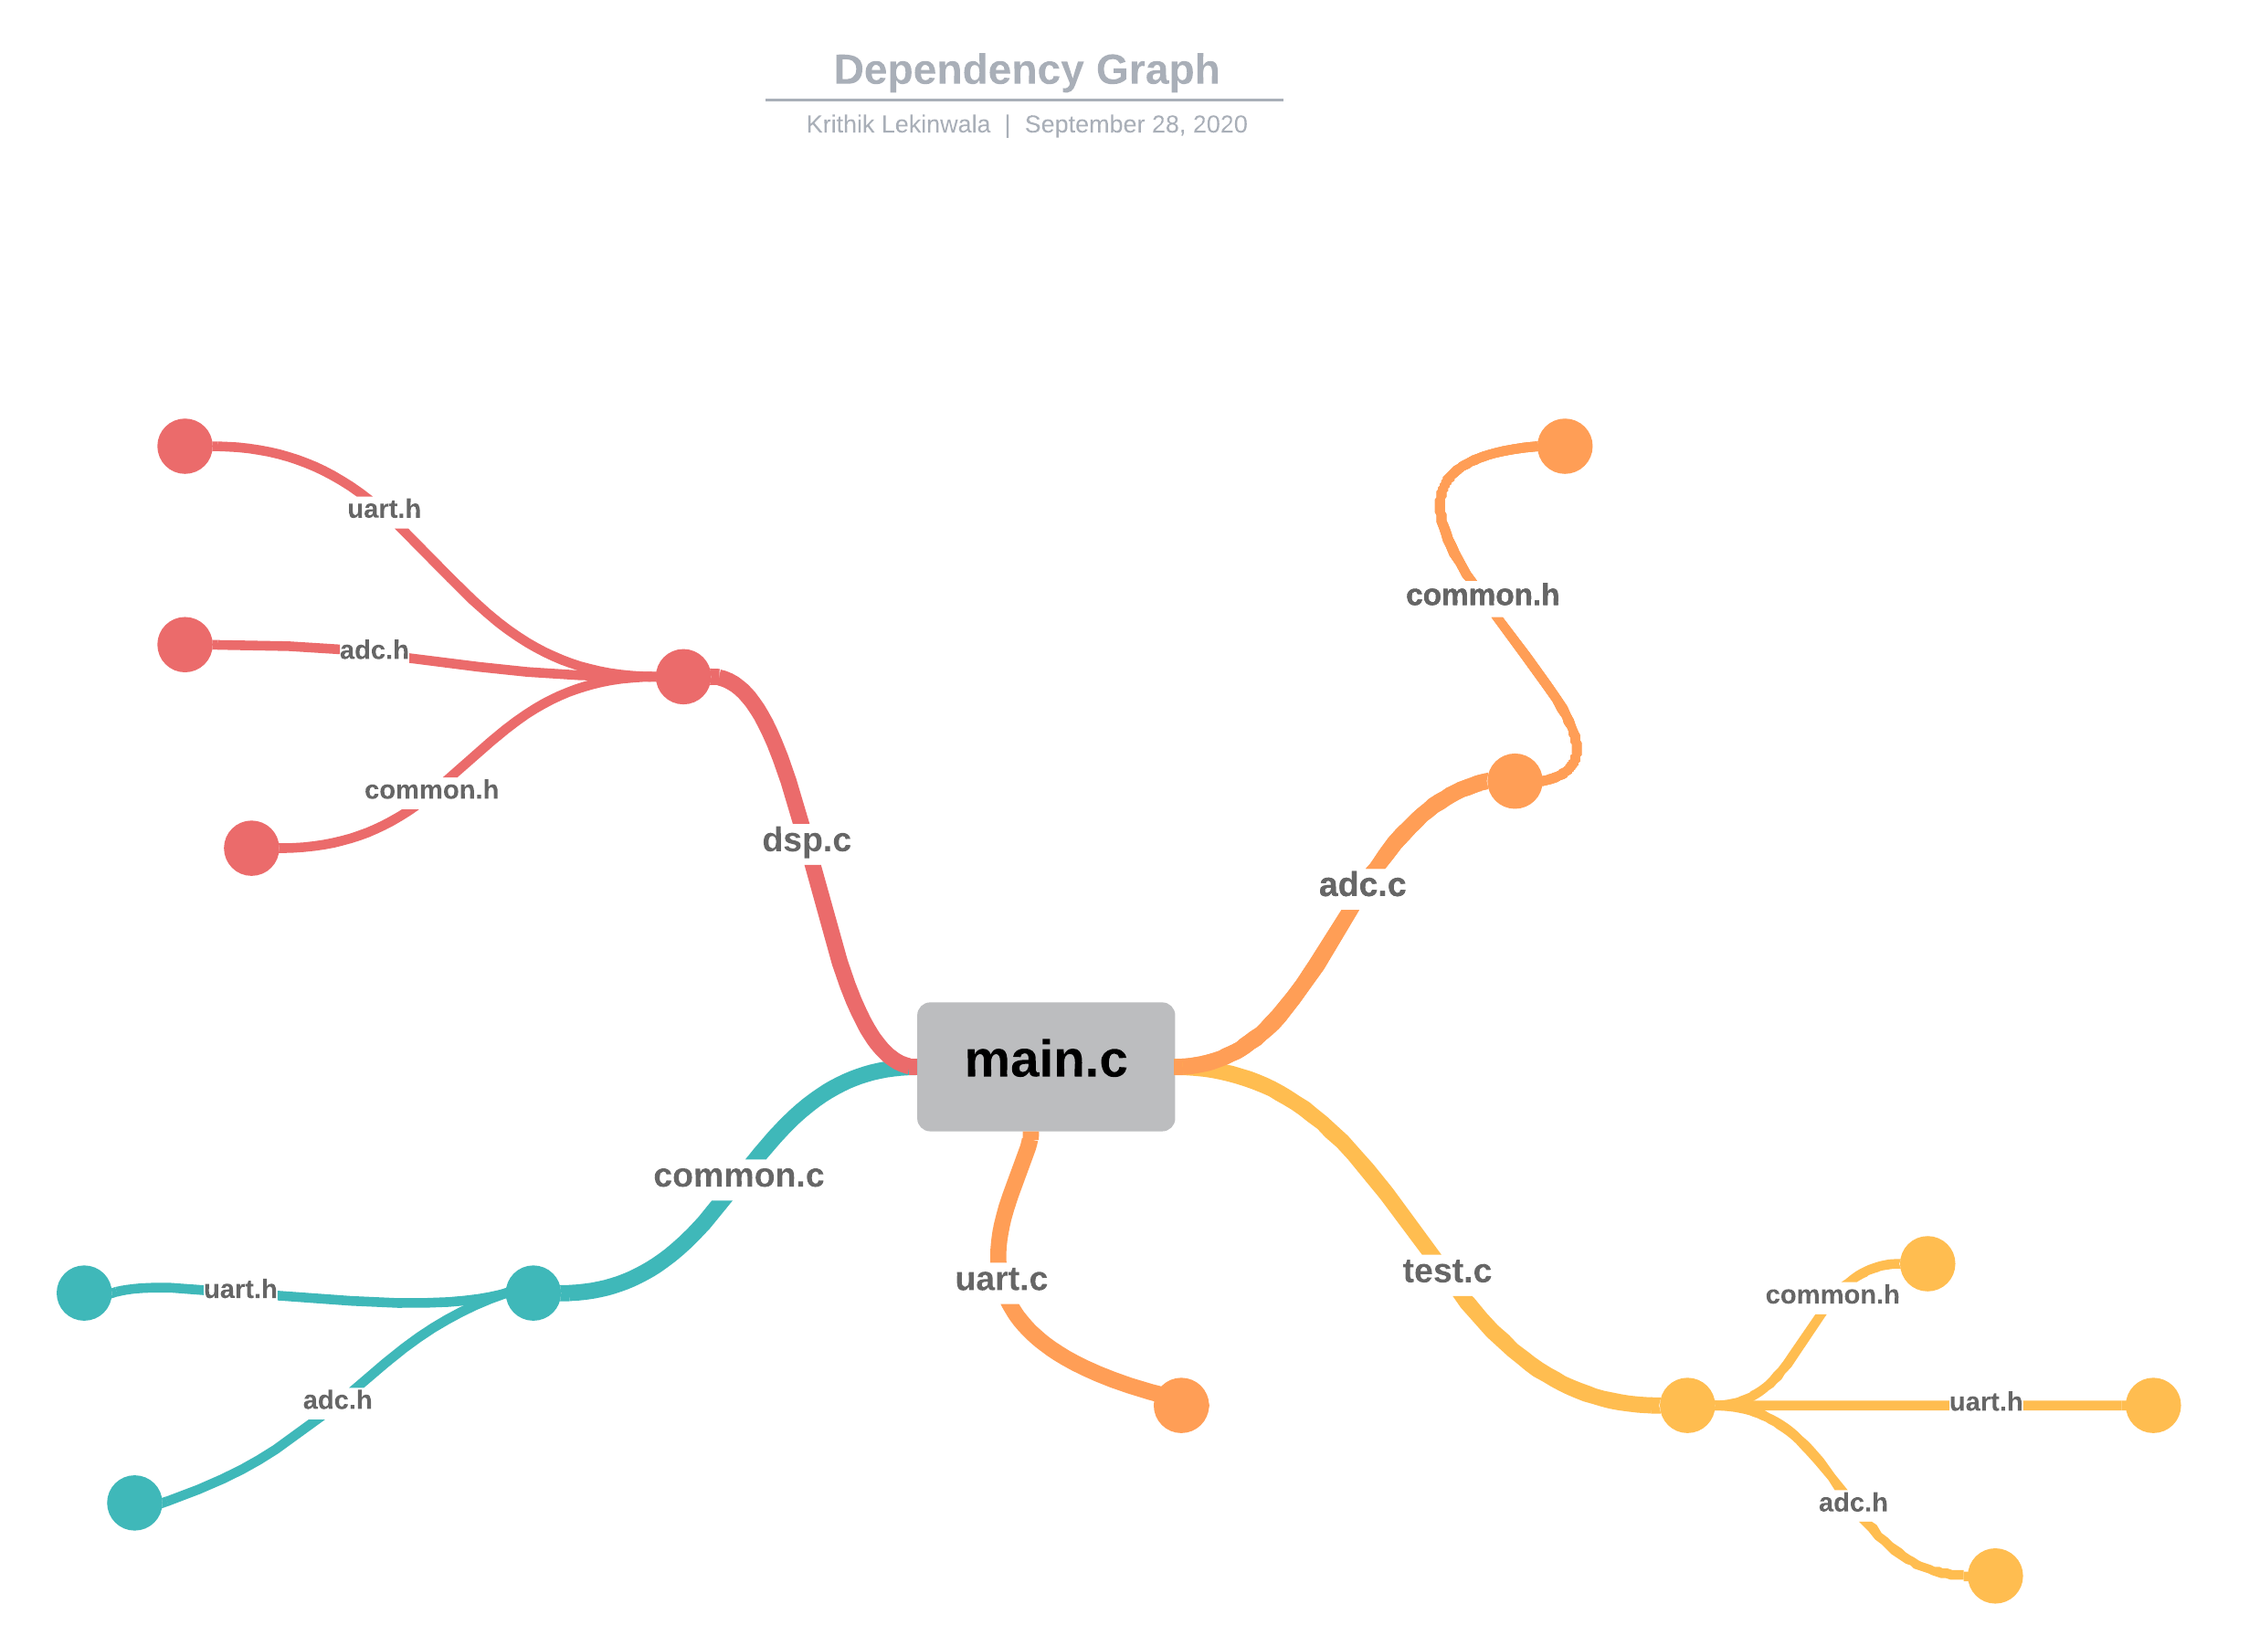
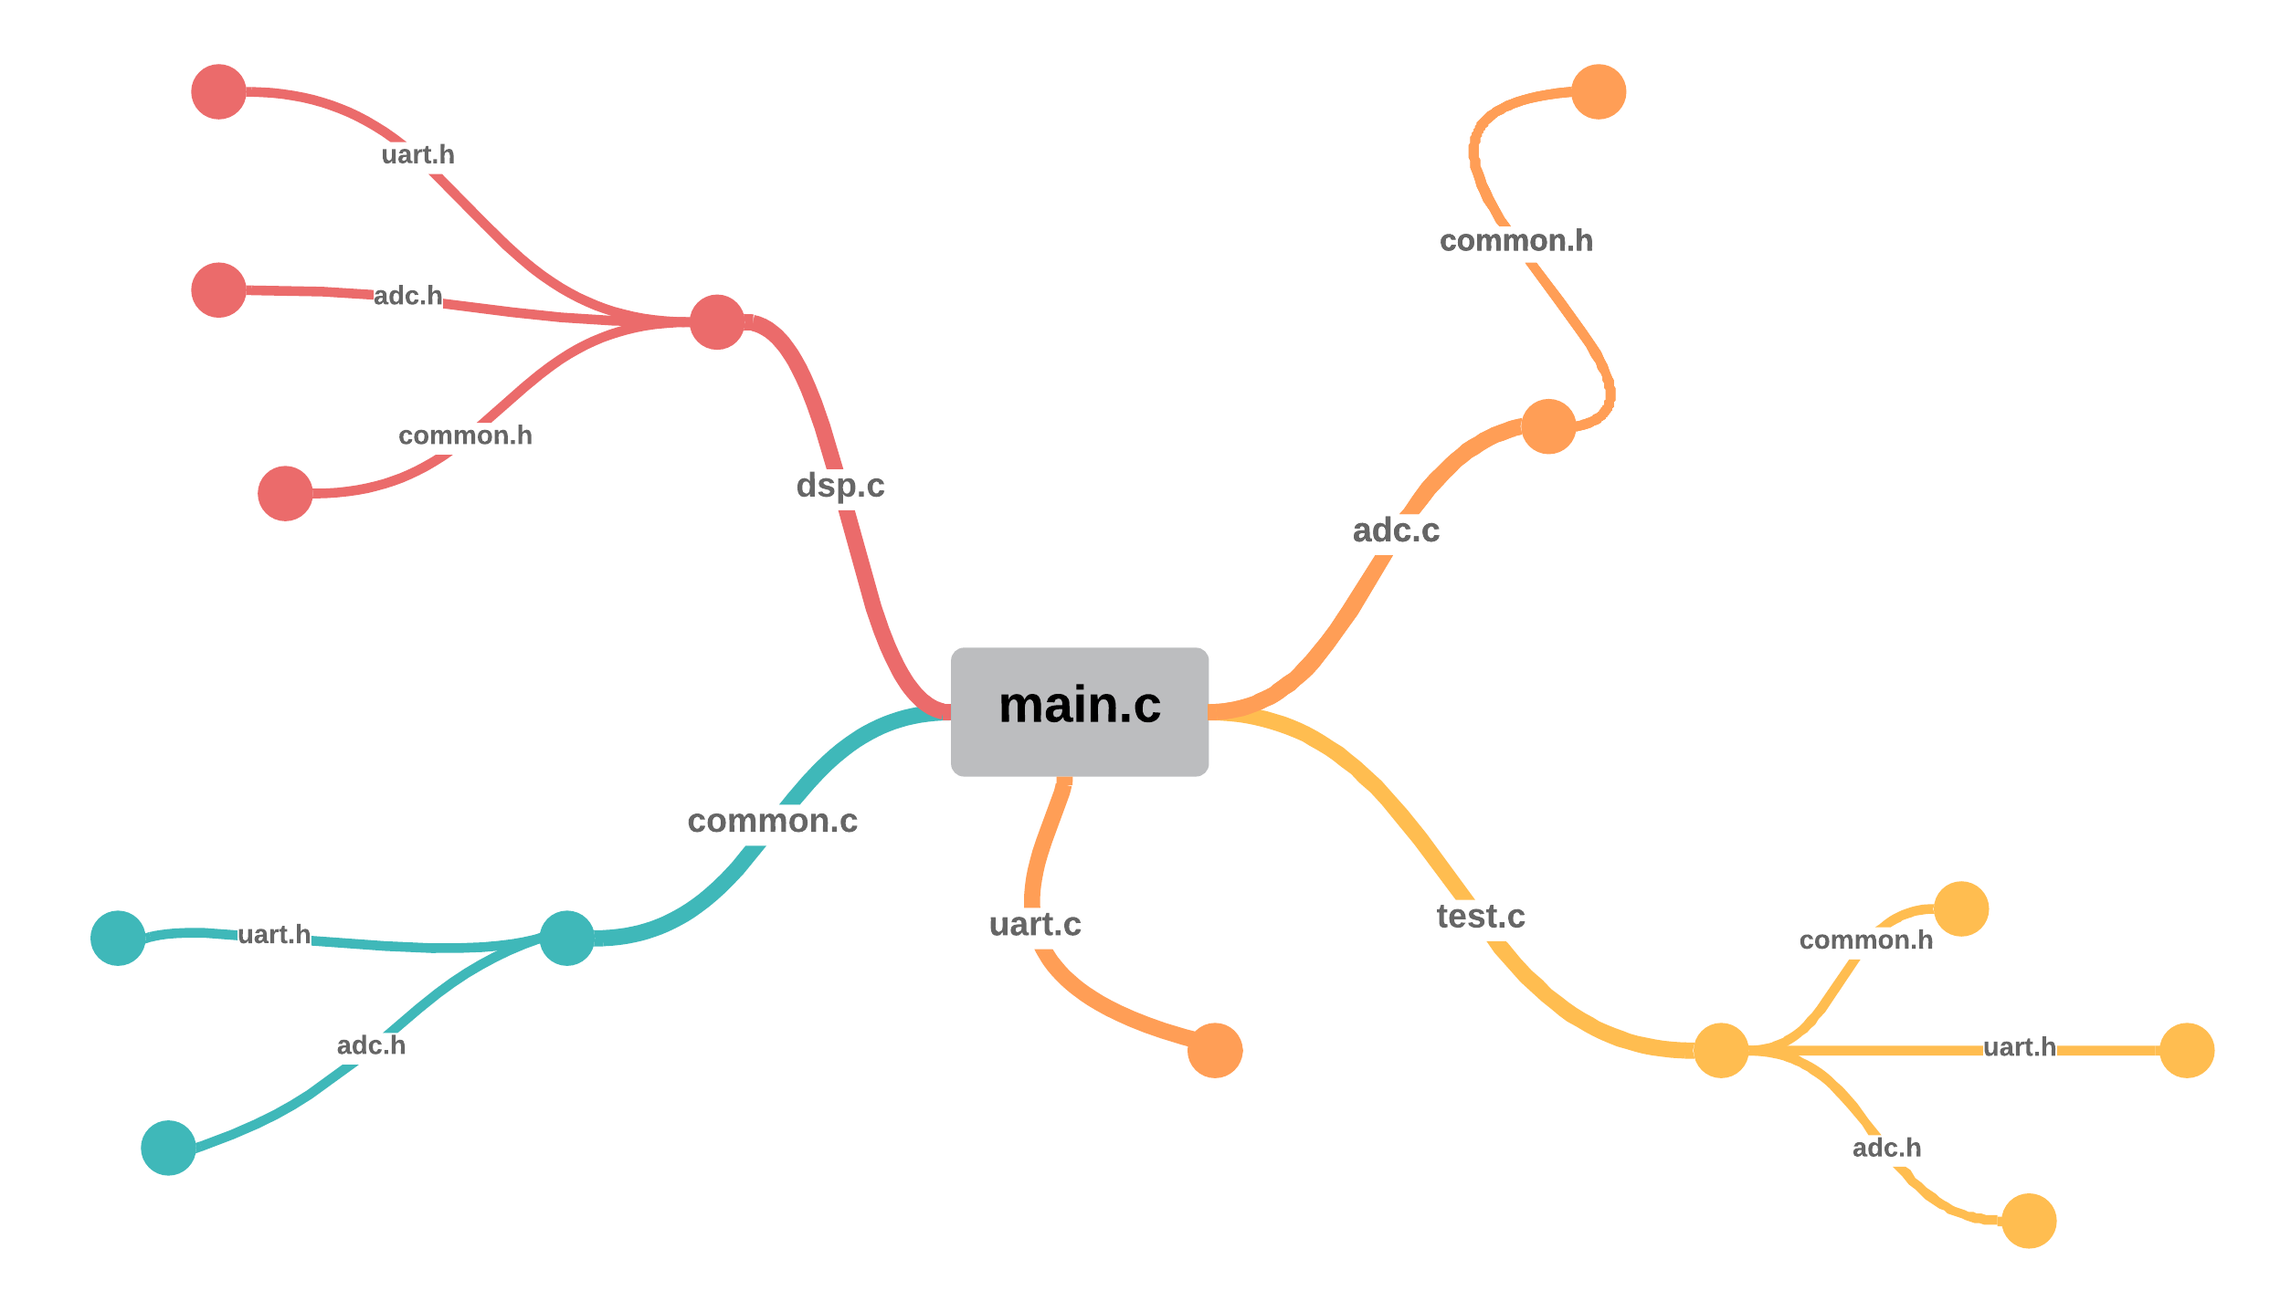
Updated Dependency graph and presentation

diff --git a/Presentation/presentation.html b/Presentation/presentation.html
@@ -239,7 +239,7 @@ name: S4
 
 Our key focus was to procure <b>modular</b> and <b>efficient</b> code.
 
-.center[![](img/Firmware_Modular.png)]
+.center[<img src = "img/DependencyGraph.png" width="70%" />]
 
 
 ---
